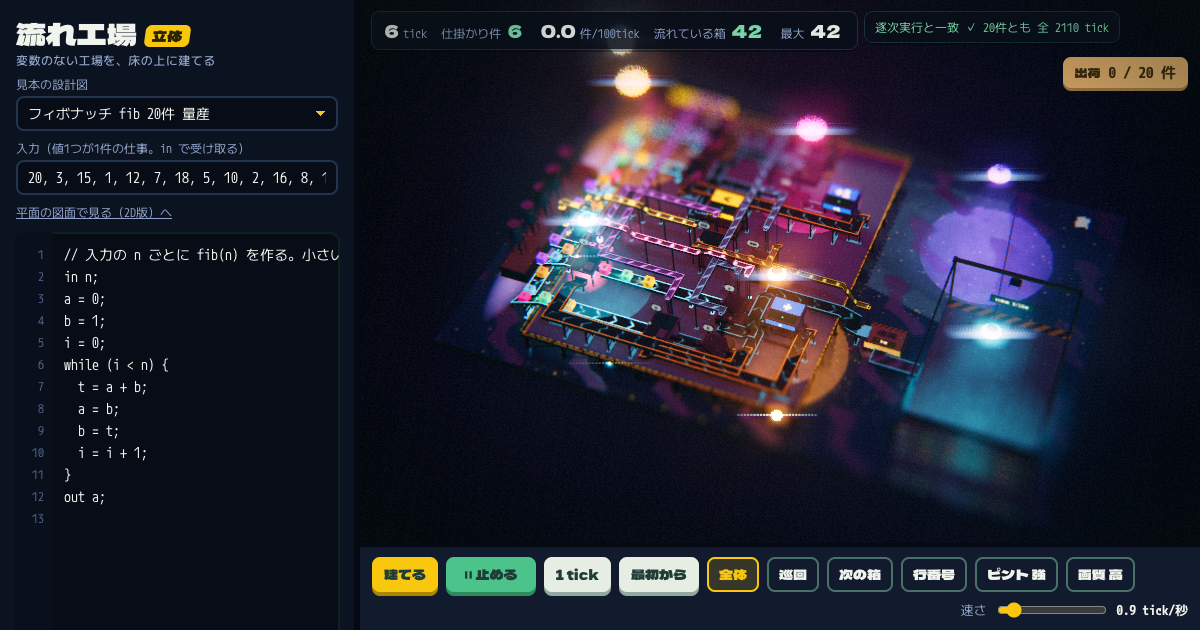
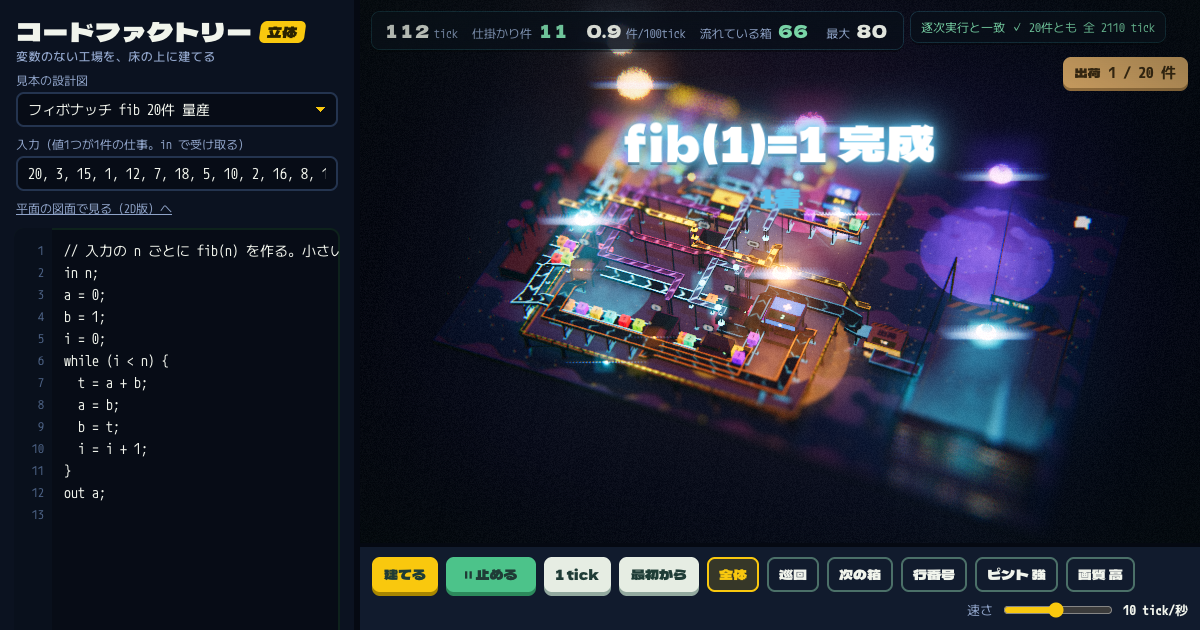
chore: rename 流れ工場 to コードファクトリー

diff --git a/public/works/code-factory/index.html b/public/works/code-factory/index.html
@@ -3,18 +3,18 @@
 <head>
 <meta charset="utf-8">
 <meta name="viewport" content="width=device-width,initial-scale=1,viewport-fit=cover">
-<title>流れ工場</title>
+<title>コードファクトリー</title>
 <meta name="description" content="プログラムを書くと工場が建つ。値が箱になってベルトを流れ、本当に計算する">
 <meta property="og:type" content="website">
 <meta property="og:site_name" content="ramda.io">
-<meta property="og:title" content="流れ工場">
+<meta property="og:title" content="コードファクトリー">
 <meta property="og:description" content="プログラムを書くと工場が建つ。値が箱になってベルトを流れ、本当に計算する">
 <meta property="og:url" content="https://www.ramda.io/works/code-factory/">
 <meta property="og:image" content="https://www.ramda.io/works/code-factory/ogp.png">
 <meta property="og:image:width" content="1200">
 <meta property="og:image:height" content="630">
 <meta name="twitter:card" content="summary_large_image">
-<meta name="twitter:title" content="流れ工場">
+<meta name="twitter:title" content="コードファクトリー">
 <meta name="twitter:description" content="プログラムを書くと工場が建つ。値が箱になってベルトを流れ、本当に計算する">
 <meta name="twitter:image" content="https://www.ramda.io/works/code-factory/ogp.png">
 <link rel="preconnect" href="https://fonts.googleapis.com">
@@ -47,7 +47,7 @@ html,body{margin:0;height:100%}
 body{background:var(--housing);color:var(--ink);font-family:"M PLUS 1 Code",ui-monospace,monospace;font-size:14px;-webkit-font-smoothing:antialiased}
 .app{display:grid;grid-template-columns:minmax(300px,360px) 1fr;grid-template-rows:auto 1fr;grid-template-areas:"brand factory" "side factory";height:100vh;height:100dvh}
 .brand{grid-area:brand;padding:18px 16px 12px;display:flex;flex-wrap:wrap;align-items:flex-end;gap:10px 14px;border-right:6px solid var(--seam)}
-.brand h1{font-family:"Dela Gothic One",sans-serif;font-weight:400;font-size:30px;line-height:1;margin:0;letter-spacing:.01em}
+.brand h1{font-family:"Dela Gothic One",sans-serif;font-weight:400;font-size:26px;white-space:nowrap;line-height:1;margin:0;letter-spacing:.01em}
 .brand h1 .solid{display:inline-block;font-size:15px;vertical-align:4px;margin-left:8px;padding:3px 7px 4px;border-radius:6px;background:var(--safety);color:#2A2200;transform:skewX(-8deg)}
 .brand h1 small{display:block;font-family:"M PLUS 1 Code",monospace;font-size:12px;color:var(--ink-dim);letter-spacing:.04em;margin-top:7px;font-weight:500}
 .brand .pick{display:flex;flex-direction:column;gap:4px;font-size:12px;color:var(--ink-dim);width:100%}
@@ -172,7 +172,7 @@ input[type=range]{accent-color:var(--safety);width:110px}
 <body>
 <div class="app">
   <header class="brand">
-    <h1>流れ工場<span class="solid">立体</span><small>変数のない工場を、床の上に建てる</small></h1>
+    <h1>コードファクトリー<span class="solid">立体</span><small>変数のない工場を、床の上に建てる</small></h1>
     <label class="pick">見本の設計図
       <select id="sample"></select>
     </label>
@@ -3081,7 +3081,7 @@ function ensureFonts(txt){
   if(!fontWait.has(k)) fontWait.set(k,Promise.race([Promise.all([document.fonts.load(`20px "Dela Gothic One"`,k),document.fonts.load(`700 20px "M PLUS 1 Code"`,k)]).catch(()=>{}),new Promise(r=>setTimeout(r,2500))]));
   return fontWait.get(k);
 }
-const BASE_TXT="流れ工場出荷口棚件箱着くりかえし行目分かれ道はいのときいいえ材料の木箱定数受付券先着伝票新戻0123456789+-−×÷%<≤>≥=≠";
+const BASE_TXT="コードファクトリー流れ工場出荷口棚件箱着くりかえし行目分かれ道はいのときいいえ材料の木箱定数受付券先着伝票新戻0123456789+-−×÷%<≤>≥=≠";
 async function build(){
   const src=ta.value, my=++buildSeq;
   building=true; $("bBuild").disabled=true; $("bBuild").textContent="建設中…";

diff --git a/public/works/code-factory/warehouse.html b/public/works/code-factory/warehouse.html
@@ -3,18 +3,18 @@
 <head>
 <meta charset="utf-8">
 <meta name="viewport" content="width=device-width,initial-scale=1,viewport-fit=cover">
-<title>流れ工場 — 倉庫版</title>
+<title>コードファクトリー — 倉庫版</title>
 <meta name="description" content="プログラムを書くと工場が建つ。値が箱になってベルトを流れ、本当に計算する">
 <meta property="og:type" content="website">
 <meta property="og:site_name" content="ramda.io">
-<meta property="og:title" content="流れ工場 — 倉庫版">
+<meta property="og:title" content="コードファクトリー — 倉庫版">
 <meta property="og:description" content="プログラムを書くと工場が建つ。値が箱になってベルトを流れ、本当に計算する">
 <meta property="og:url" content="https://www.ramda.io/works/code-factory/warehouse.html">
 <meta property="og:image" content="https://www.ramda.io/works/code-factory/ogp.png">
 <meta property="og:image:width" content="1200">
 <meta property="og:image:height" content="630">
 <meta name="twitter:card" content="summary_large_image">
-<meta name="twitter:title" content="流れ工場 — 倉庫版">
+<meta name="twitter:title" content="コードファクトリー — 倉庫版">
 <meta name="twitter:description" content="プログラムを書くと工場が建つ。値が箱になってベルトを流れ、本当に計算する">
 <meta name="twitter:image" content="https://www.ramda.io/works/code-factory/ogp.png">
 <link rel="preconnect" href="https://fonts.googleapis.com">
@@ -130,11 +130,11 @@ input[type=range]{accent-color:var(--safety);width:96px}
 <body>
 <div class="app">
   <header class="brand">
-    <h1>コード工場<small>小さなプログラムを、動く工場にする</small></h1>
+    <h1>コードファクトリー<small>小さなプログラムを、動く工場にする</small></h1>
     <label>見本の設計図
       <select id="sample"></select>
     </label>
-    <a href="/works/code-factory/dataflow.html" style="color:var(--ink-dim);font-size:12px;width:100%">倉庫のない「流れ工場」版へ</a>
+    <a href="/works/code-factory/dataflow.html" style="color:var(--ink-dim);font-size:12px;width:100%">倉庫のない版（2D）へ</a>
   </header>
 
   <section class="factory" aria-label="工場">

diff --git a/public/works/code-factory/dataflow.html b/public/works/code-factory/dataflow.html
@@ -3,18 +3,18 @@
 <head>
 <meta charset="utf-8">
 <meta name="viewport" content="width=device-width,initial-scale=1,viewport-fit=cover">
-<title>流れ工場 — 2D版</title>
+<title>コードファクトリー — 2D版</title>
 <meta name="description" content="プログラムを書くと工場が建つ。値が箱になってベルトを流れ、本当に計算する">
 <meta property="og:type" content="website">
 <meta property="og:site_name" content="ramda.io">
-<meta property="og:title" content="流れ工場 — 2D版">
+<meta property="og:title" content="コードファクトリー — 2D版">
 <meta property="og:description" content="プログラムを書くと工場が建つ。値が箱になってベルトを流れ、本当に計算する">
 <meta property="og:url" content="https://www.ramda.io/works/code-factory/dataflow.html">
 <meta property="og:image" content="https://www.ramda.io/works/code-factory/ogp.png">
 <meta property="og:image:width" content="1200">
 <meta property="og:image:height" content="630">
 <meta name="twitter:card" content="summary_large_image">
-<meta name="twitter:title" content="流れ工場 — 2D版">
+<meta name="twitter:title" content="コードファクトリー — 2D版">
 <meta name="twitter:description" content="プログラムを書くと工場が建つ。値が箱になってベルトを流れ、本当に計算する">
 <meta name="twitter:image" content="https://www.ramda.io/works/code-factory/ogp.png">
 <link rel="preconnect" href="https://fonts.googleapis.com">
@@ -139,7 +139,7 @@ input[type=range]{accent-color:var(--safety);width:110px}
 <body>
 <div class="app">
   <header class="brand">
-    <h1>流れ工場<small>変数のない工場。値はベルトで機械から機械へ</small></h1>
+    <h1>コードファクトリー<small>変数のない工場。値はベルトで機械から機械へ</small></h1>
     <label class="pick">見本の設計図
       <select id="sample"></select>
     </label>

diff --git a/app/works.ts b/app/works.ts
@@ -4,7 +4,7 @@ import type { Item } from "./notion";
 export const staticWorks: Item[] = [
   {
     id: "works/code-factory",
-    title: "流れ工場",
+    title: "コードファクトリー",
     link: "/works/code-factory",
     summary:
       "プログラムを書くと工場が建つ。値が箱になってベルトを流れ、本当に計算する",
